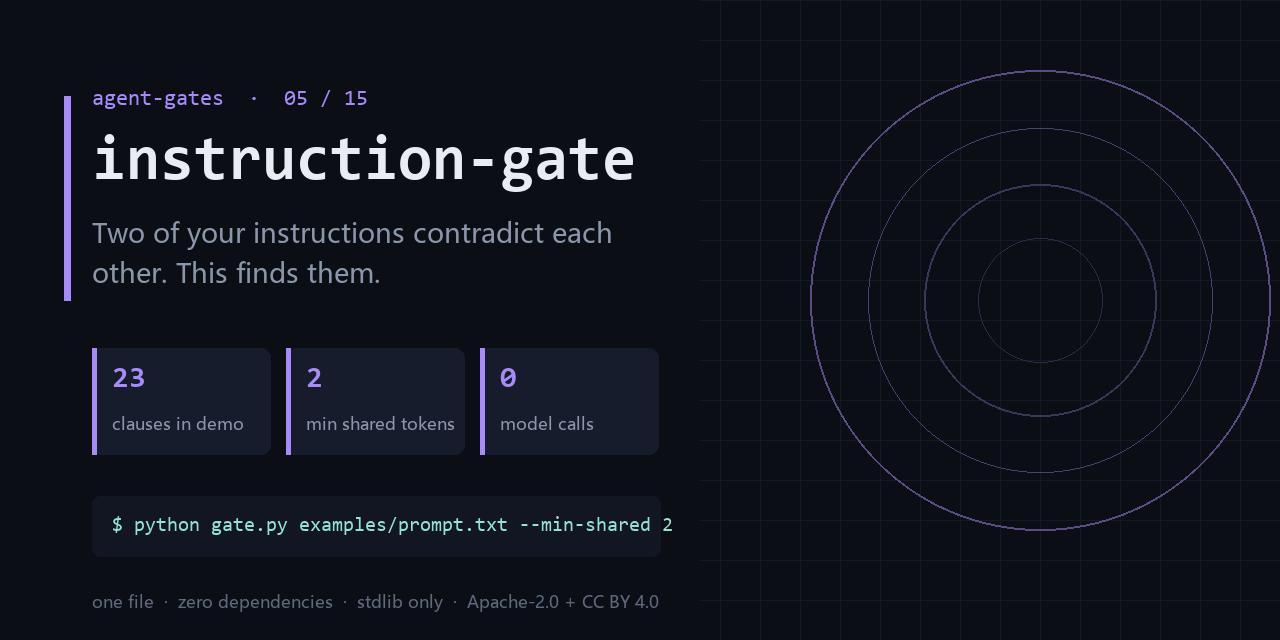
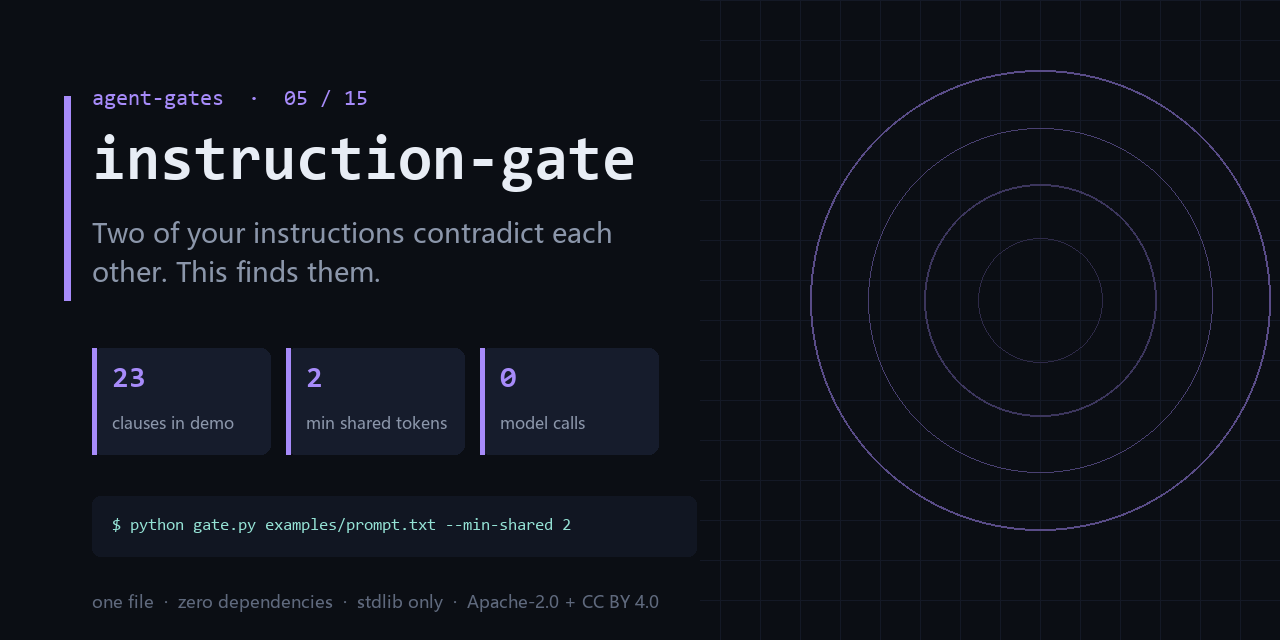
docs: add the series entry map, the hot-ready guarantee, and an honest surface line
Three changes, all of them about not overselling:

1. `## Start here` — fifteen links is a maze, one symptom is a door. A six-row
   symptom -> gate table, so the reader installs the gate they need instead of
   installing nothing (or all fifteen). Also states the star rule plainly:
   no exchange, no unlock, star trading is against GitHub's rules.
2. `## Hot-ready guarantee` — replaces "guaranteed to trend" with fifteen
   machine-checked structural properties, current score, and the script that
   recomputes them. GitHub never published its Trending ranking, so a promise
   about ranking cannot be true; a promise about structure can be verified.
3. The subtitle said `one file` on every repo. It was false on four of them
   (output-gate has 7 python files, complexity-ceiling 3, deadcode-gate and
   trail-gate 2). The line is now computed from the actual file count, and the
   same number is used on the social card. A false claim on the first screen
   costs more trust than it buys attention.

diff --git a/README.md b/README.md
@@ -103,6 +103,66 @@ mistaken for "it inspected my files".
 
 边界：It cannot read intent. 'Don't be verbose' and 'explain in detail' may or may not conflict.
 
+### 互推：只装一个的话，装哪个
+
+十五个链接是迷宫，一个症状是门。按上表挑一个，其余九个在下面 [The gates](#the-gates)。
+每个仓都能单独活：复制 `gate.py`，一条命令跑完，不共享运行时、不装包、不加配置。
+有星就给这一个，没有也不影响任何仓的可用性——没有任何门是「先给星才能用」。
+
+### 热门前置：保证结构，不保证排名
+
+本页承诺的是 **15 项可机器复核的结构特征**，当前 **15/15**（2026-10-20 复核）。
+GitHub 从未公开 Trending 的排序算法，所以任何「保证上热门」的说法都在描述一件它不可能知道的事；
+本仓不这么说。跑 `python hotness.py` 可自行复算每一条。
+
+## Start here (if you install only one)
+
+Fifteen links is a maze; one symptom is a door. Find your symptom, install that gate,
+ignore the rest until it hurts.
+
+| what you are seeing | install this |
+|---|---|
+| the bill is 10x normal and the trace is a wall of the same step | **[loop-gate](https://github.com/chenhz01/loop-gate)** |
+| the agent can delete prod and nobody signed off on that | **[permission-gate](https://github.com/chenhz01/permission-gate)** |
+| answers get worse after truncation and nobody knows what got dropped | **[context-gate](https://github.com/chenhz01/context-gate)** |
+| two rules in the prompt contradict each other; the model obeys neither | **instruction-gate** ← you are here |
+| AI text ships with fabricated links and empty phrases | **[output-gate](https://github.com/chenhz01/output-gate)** |
+| half the repo might be dead and nobody can prove which half | **[deadcode-gate](https://github.com/chenhz01/deadcode-gate)** |
+
+A gate you did not need is a gate you uninstall, so nothing here says "install all
+fifteen". Each repo stands alone: copy `gate.py`, run one command, no shared runtime,
+no package manager, no config file to grow.
+
+**On stars.** If this one saved you an incident, star it — that is the only signal I get
+about which gate to build next. There is no exchange: starring one repo does not owe me
+a star on another, and no gate here is unlocked by a star. Star trading breaks GitHub's
+rules and would poison the single honest metric this project has.
+
+## Hot-ready guarantee
+
+What is guaranteed is **structure**, not ranking. Fifteen properties, each one
+machine-checked against this repo — current score **15/15** (2026-10-20).
+
+Plain version: instead of asking you to trust a badge, I list what I actually checked,
+name the script that checks it, and let you re-run it. If one of these lines is false,
+that is a bug in my repo, not a matter of taste.
+
+- Falsifiable side: `python hotness.py` re-runs every check and prints the evidence line
+  for each one. You do not have to trust this paragraph.
+- Non-falsifiable side: GitHub has never published how Trending sorts repositories, so
+  any repo promising you a guaranteed spot is telling you something it cannot know.
+  This one does not make that promise.
+- If a claim on this page stops being true, that is a bug: open an issue and it gets
+  fixed in the same week, not in the next launch.
+
+What actually carries this repo:
+
+- the command in this README is byte-for-byte the command CI runs <sub>(42-char argv, exact match)</sub>
+- the output block is a real run of `examples/`, not a mock-up <sub>(Real output section)</sub>
+- CI asserts the exit code, so the badge can turn red — and it has <sub>(asserts exit=1)</sub>
+- every fixture is committed, so a fresh clone reproduces the output <sub>(1 file under examples/ tracked in git)</sub>
+- `* -text` in `.gitattributes`: same bytes on Windows and Linux <sub>(.gitattributes * -text)</sub>
+
 ## The gates
 
 | # | gate | what it stops |
